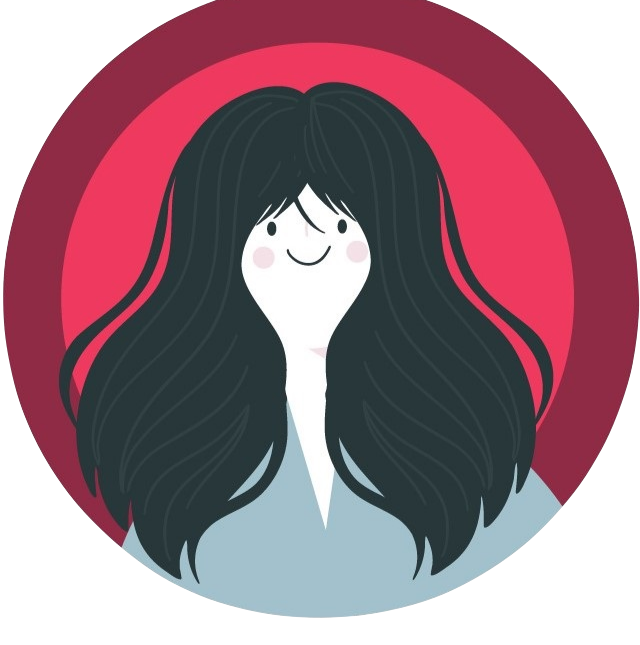
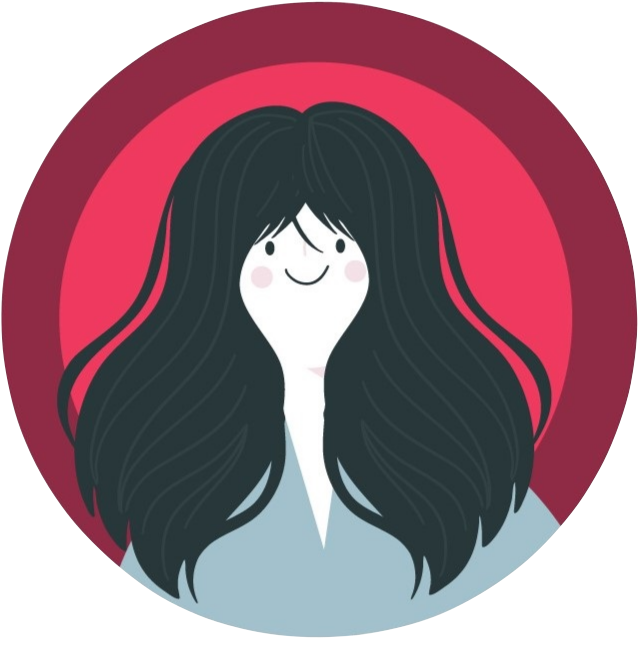
Random default profile image on page load

diff --git a/js/app.js b/js/app.js
@@ -1,6 +1,9 @@
 // app.js is only for application functions, variables, and objects. 
 // Any consistent data that would ideally be stored in a DB should be kept in data.js for now until an actual DB is setup
 
+
+// Global vars & objects
+
 let dataPresent = false;
 
 let charactersIndex = -1;
@@ -11,6 +14,7 @@ const char = {
     "id": 0,
     "name": "Character",
     "nickname": "Snagglepuss",
+    "profileImage": "images/1.png",
     "suitName": "Waffle",
     "inSuit": false,
     "xp": 0,
@@ -20,7 +24,6 @@ const char = {
     "stats": [],
     "inventory": []
 }
-
 
 let item = {
     "id": 0,
@@ -42,6 +45,19 @@ let stat = {
 let log = {
     "logEntries": []
 }
+
+
+
+// On Load
+
+window.onload=function() {
+    loadDefaultImage();
+}
+
+
+
+
+// Functions
 
 function addLogEntry() {
     alert('To be implemented')
@@ -95,6 +111,10 @@ function importCharacterData(data) {
     updateCharacterPage();
 }
 
+function loadDefaultImage() {
+    document.getElementById("profile-pic").src = 'images/' + (Math.floor(Math.random() * 5) + 1) + '.png';
+}
+
 
 function manipulateCSS() {
     if (dataPresent) {
@@ -135,12 +155,18 @@ function updateSuitStatus() {
     alert('To be fully implemented')
 }
 
+
+
+// Customized event Listeners
+
 document.getElementById('add-xp-form').addEventListener('submit', function(e) {
     e.preventDefault(); //to prevent form submission
     document.getElementById('xp-new').value = "";
   });
 
 
+
+  
 /* Testing Stuff */
 // Disables all form submits
 /*
@@ -152,3 +178,4 @@ $(document).ready(function() {
     });
   });
 */
+

diff --git a/index.html b/index.html
@@ -36,6 +36,9 @@
                         <p>Power Level - <span id="top-row-power-level">0</span></p>
                     </div>
                     <div>
+                        <img id="profile-pic" class="img-fluid" src="images/1.png">
+                    </div>
+                    <div>
                         <div>Currently <span id="suit-status-text">out of</span> <span id="suit-name">Waffle</span> <input id="in-suit" type="checkbox" onchange="updateSuitStatus()"></div>
                     </div>
                 </div>
@@ -72,6 +75,7 @@
                 </div>
             </div>
         </div>
+        
         <script src="js/app.js" async defer></script>
     </body>
 </html>

diff --git a/css/app.css b/css/app.css
@@ -6,6 +6,11 @@
     text-align: center;
 }
 
+#profile-pic {
+    max-width: 300px;
+    max-height: 300px;
+}
+
 #top-row {
     text-align: center;
 }
